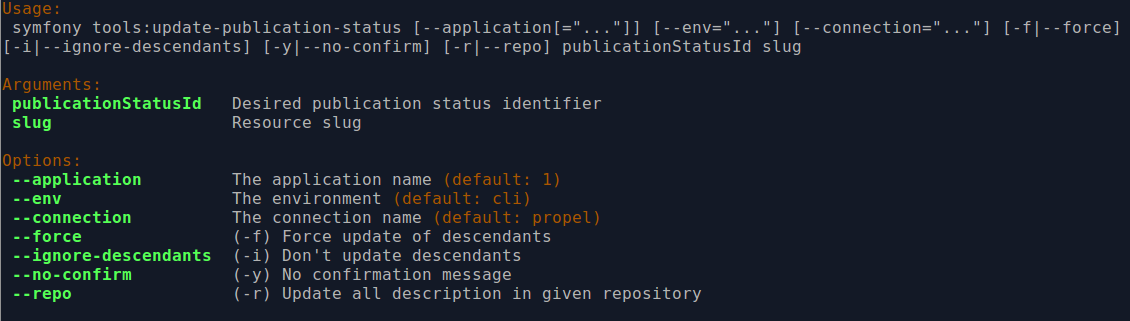
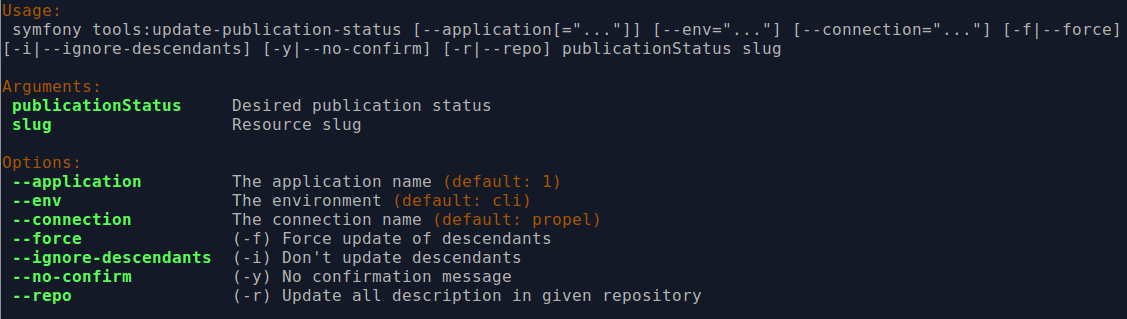
update pub status task instructions

Changed region(s): [[0.0, 0.4796, 0.6211, 0.9592], [0.0, 0.0, 0.9938, 0.1693], [0.0, 0.2539, 0.528, 0.4232]]

diff --git a/admin-manual/maintenance/cli-tools.rst b/admin-manual/maintenance/cli-tools.rst
@@ -427,29 +427,30 @@ whose publication status you wish to update:
 
 .. code:: bash
 
-   php symfony tools:update-publication-status [-f|--force] [-i|--ignore-descendants] [-y|--no-confirm] [-r|--repo] publicationStatusId slug
+   php symfony tools:update-publication-status [--application[="..."]] [--env="..."] [--connection="..."] [-f|--force] [-i|--ignore-descendants] [-y|--no-confirm] [-r|--repo] publicationStatus slug
 
 Notes on use
 ------------
 
-To update a record to Draft or Published, you must supply a
-publicationStatusID - that is, a fixed ID value in AtoM that represents
-either Draft or Published. Entering the terms "draft" or "published" will not
-work. Instead use the following values for the publicationStatusID:
+AtoM requires two parameters to be able to execute the task: the publication
+status you wish to use, and the :term:`slug` of a resource on which to perform
+the task. For the publication status, you can use any term you have added to the
+Publication status :term:`taxonomy` in AtoM - the default terms are Draft, and
+Published. You **cannot** create a new publication status :term:`term` by using
+this task - the term must already exist in AtoM, or the task will fail.
 
-================== ========
-Publication status statusID
-================== ========
-Draft              159
-Published          160
-================== ========
+For more information on slugs in AtoM, see above, :ref:`slugs-in-atom`. Note that
+even when updating all the descriptions associated with a :term:`archival institution` using
+the ``--repository`` option described below, you **still must provide a slug**
+as a parameter for the task to execute. It can be any slug when using the
+``--repository`` option.
 
 **Example use (no options)** - update a description with a slug of
 "example-description" to published:
 
 .. code:: bash
 
-   php symfony tools:update-publication-status 160 example-description
+   php symfony tools:update-publication-status published example-description
 
 **Task options:**
 
@@ -497,7 +498,7 @@ still provide a description slug ("my-description") for it to execute:
 
 .. code:: bash
 
-   php symfony tools:update-publication-status --force --repo="my-archival-institution" 160 my-description
+   php symfony tools:update-publication-status --force --repo="my-archival-institution" published my-description
 
 .. WARNING::
 
